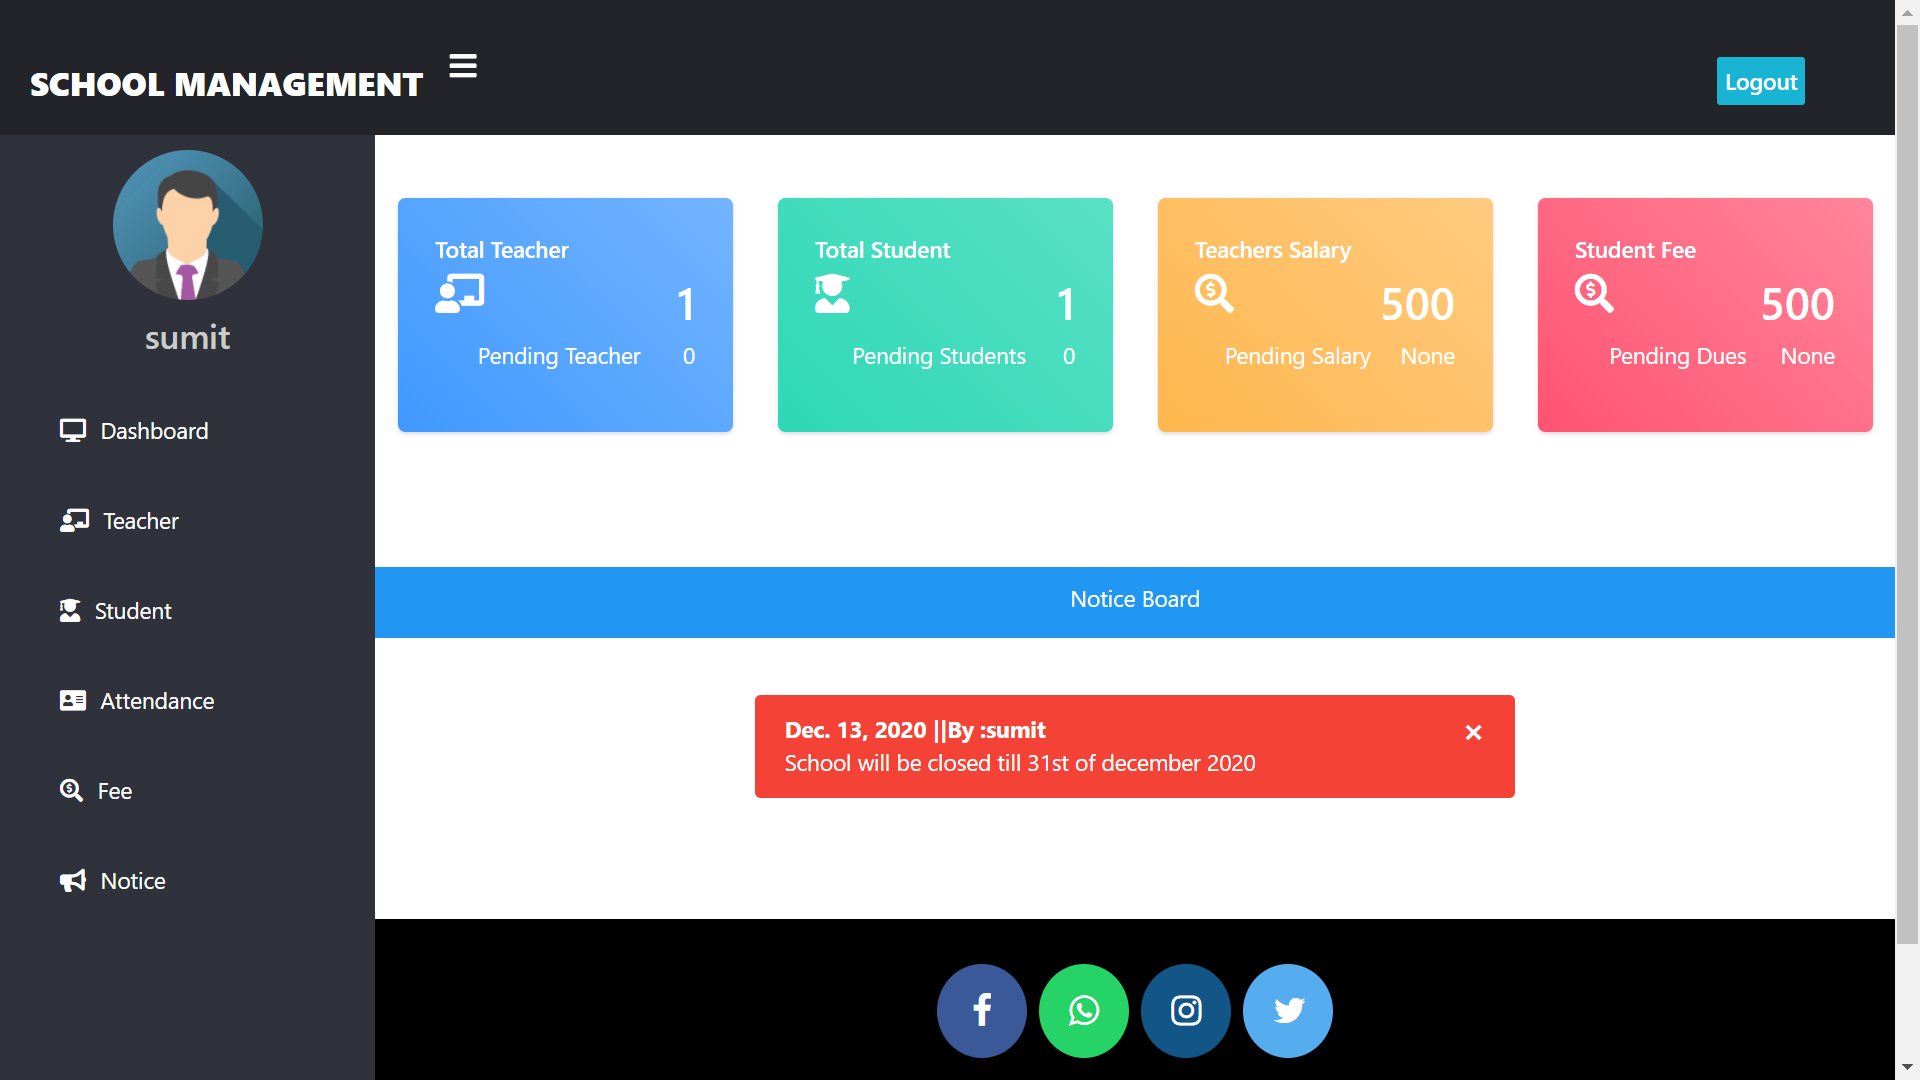
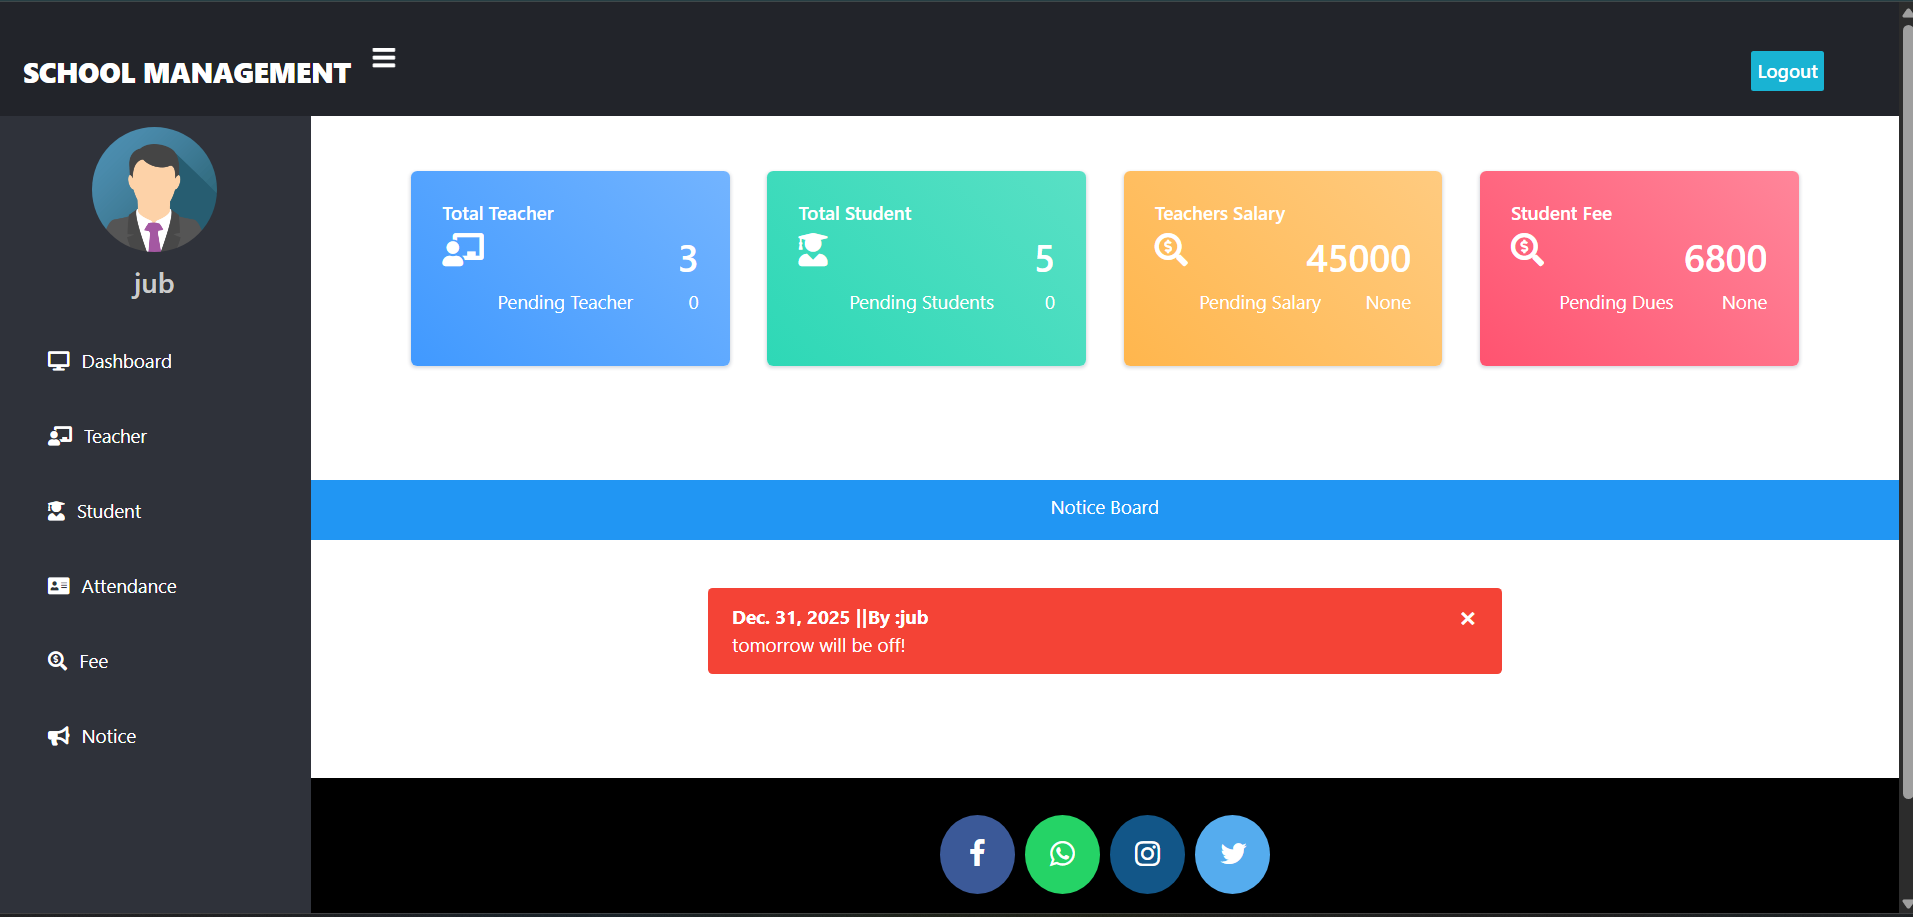
Updated images and modified code

diff --git a/templates/school/index.html b/templates/school/index.html
@@ -10,9 +10,10 @@
     .jumbotron {
       margin-top: 0px;
       margin-bottom: 0px;
-      background-image: url('{% static "images/bg2.jpg" %}');
+      background-image: url('{% static "images/bg.png" %}');
       background-size: cover;
       background-repeat: no-repeat;
+     
     }
 
     .jumbotron h1 {
@@ -43,6 +44,14 @@
         text-shadow: 0 0 20px #eeeeee, 0 0 30px #ff4da6, 0 0 40px #ff4da6, 0 0 50px #ff4da6, 0 0 60px #ff4da6, 0 0 70px #ff4da6, 0 0 80px #ff4da6;
       }
     }
+
+    
+    .display-4{
+      margin-bottom: 5rem;
+    }
+    .lead{
+      margin-bottom: 10rem;
+    }
   </style>
 
 </head>
@@ -53,15 +62,17 @@
   <br>
   <div class="jumbotron" style="margin-bottom: 0px;margin-top: 0px;">
     <br>
-    <h1 class="display-4 glow">Welcome</h1>
-
+    
     <br><br>
-    <p>Knowledge is key to success.</p>
+    
+    
     <br><br><br><br><br>
+    <h1 class="display-4 glow">Welcome</h1>
     <p class="lead">
       <a class="btn btn-primary btn-lg" href="/studentsignup" role="button">Take Admission</a>
     </p>
     <br><br>
+    
   </div>
 
   <br>

diff --git a/templates/school/footer.html b/templates/school/footer.html
@@ -63,8 +63,8 @@
 <footer>
 
   <p>
-    <a href="https://facebook.com/sumit.luv/" class="fa fa-facebook"></a>
-    <a href="https://api.whatsapp.com/send?phone=919572181024&text=Hello%20Sumit.%0d%0aHow%20are%20you%20%3f%0d%0aI%20came%20from%20your%20website.&source=&data=#" class="fa fa-whatsapp"></a>
+    <a href="https://www.facebook.com/share/14evUNACRvN/" class="fa fa-facebook"></a>
+    <a href="" class="fa fa-whatsapp"></a>
     <a href="https://instagram.com/sumit.luv" class="fa fa-instagram"></a>
     <a href="https://twitter.com/sumitkumar1503" class="fa fa-twitter"></a>
   </p>

diff --git a/templates/school/teacherlogin.html b/templates/school/teacherlogin.html
@@ -62,7 +62,7 @@
   <br>
   <br><br>
 
-  <!--- signup page for teacher by admin(sumit)  ---------->
+  <!--- signup page for teacher by admin(jubayer)  ---------->
   <form method="post">
     {% csrf_token %}
     <div class="container register-form">
@@ -97,10 +97,9 @@
   </form>
 
   <br><br><br>
-  <!--
-written By : sumit kumar
-facebook : fb.com/sumit.luv
--->
+
+
+  
   {% include "school/footer.html" %}
 </body>
 

diff --git a/templates/school/adminlogin.html b/templates/school/adminlogin.html
@@ -62,7 +62,7 @@
   <br>
   <br><br>
 
-  <!--- signup page for teacher by admin(sumit)  ---------->
+  <!--- signup page for teacher by admin  ---------->
   <form method="post">
     {% csrf_token %}
     <div class="container register-form">
@@ -97,10 +97,7 @@
   </form>
 
   <br><br><br>
-  <!--
-written By : sumit kumar
-facebook : fb.com/sumit.luv
--->
+
   {% include "school/footer.html" %}
 </body>
 

diff --git a/templates/school/adminsignup.html b/templates/school/adminsignup.html
@@ -61,7 +61,7 @@
 
 
 
-  <!--- signup page for teacher by admin(sumit)  ---------->
+  <!--- signup page for teacher by admin  ---------->
   <form method="post">
     {% csrf_token %}
     <div class="container register-form">
@@ -101,11 +101,7 @@
 
 
 
-  <!--
-        written By : sumit kumar
-        facebook : fb.com/sumit.luv
-        -->
-
+  
 
 
   {% include "school/footer.html" %}

diff --git a/templates/school/teachersignup.html b/templates/school/teachersignup.html
@@ -61,7 +61,7 @@
 
 
 
-  <!--- signup page for teacher by admin(sumit)  ---------->
+  <!--- signup page for teacher by admin(jubayer)  ---------->
   <form method="post">
     {% csrf_token %}
     <div class="container register-form">
@@ -108,10 +108,7 @@
 
 
 
-  <!--
-        written By : sumit kumar
-        facebook : fb.com/sumit.luv
-        -->
+
 
 
 

diff --git a/templates/school/admin_add_teacher.html b/templates/school/admin_add_teacher.html
@@ -49,7 +49,7 @@
 
 </head>
 
-<!------ signup page for teacher by admin(sumit)  ---------->
+<!------ signup page for teacher by admin  ---------->
 <form method="post">
   {% csrf_token %}
   <div class="container register-form">
@@ -90,9 +90,6 @@
 
 </form>
 
-<!--
-written By : sumit kumar
-facebook : fb.com/sumit.luv
--->
+
 
 {% endblock content %}

diff --git a/templates/school/admin_update_teacher.html b/templates/school/admin_update_teacher.html
@@ -48,7 +48,7 @@
 
 </head>
 
-<!------ signup page for teacher by admin(sumit)  ---------->
+<!------ signup page for teacher by admin  ---------->
 <form method="post">
   {% csrf_token %}
   <div class="container register-form">
@@ -89,9 +89,6 @@
 
 </form>
 
-<!--
-written By : sumit kumar
-facebook : fb.com/sumit.luv
--->
+
 
 {% endblock content %}

diff --git a/templates/school/admin_view_attendance_ask_date.html b/templates/school/admin_view_attendance_ask_date.html
@@ -48,7 +48,7 @@
 
 </head>
 
-<!------ date page for attendance by admin(sumit)  ---------->
+<!------ date page for attendance by admin ---------->
 <form method="post">
   {% csrf_token %}
   <div class="container register-form">
@@ -74,9 +74,5 @@
 
 </form>
 
-<!--
-written By : sumit kumar
-facebook : fb.com/sumit.luv
--->
 
 {% endblock content %}

diff --git a/templates/school/admin_update_student.html b/templates/school/admin_update_student.html
@@ -48,7 +48,7 @@
 
 </head>
 
-<!------ student update page by admin(sumit)  ---------->
+<!------ student update page by admin  ---------->
 <form method="post">
   {% csrf_token %}
   <div class="container register-form">
@@ -95,9 +95,6 @@
 
 </form>
 
-<!--
-written By : sumit kumar
-facebook : fb.com/sumit.luv
--->
+
 
 {% endblock content %}

diff --git a/templates/school/admin_notice.html b/templates/school/admin_notice.html
@@ -49,7 +49,7 @@
 
 </head>
 
-<!------ notice page for  by admin(sumit)  ---------->
+<!------ notice page for  by admin  ---------->
 <form method="post">
   {% csrf_token %}
   <div class="container register-form">
@@ -77,9 +77,6 @@
 
 </form>
 
-<!--
-written By : sumit kumar
-facebook : fb.com/sumit.luv
--->
+
 
 {% endblock content %}

diff --git a/templates/school/admin_add_student.html b/templates/school/admin_add_student.html
@@ -45,12 +45,9 @@
 
 </head>
 
-<!--
-written By : sumit kumar
-facebook : fb.com/sumit.luv
--->
 
-<!------ signup page for student by admin(sumit)  ---------->
+
+<!------ signup page for student by admin  ---------->
 <form method="post">
   {% csrf_token %}
   <div class="container register-form">
